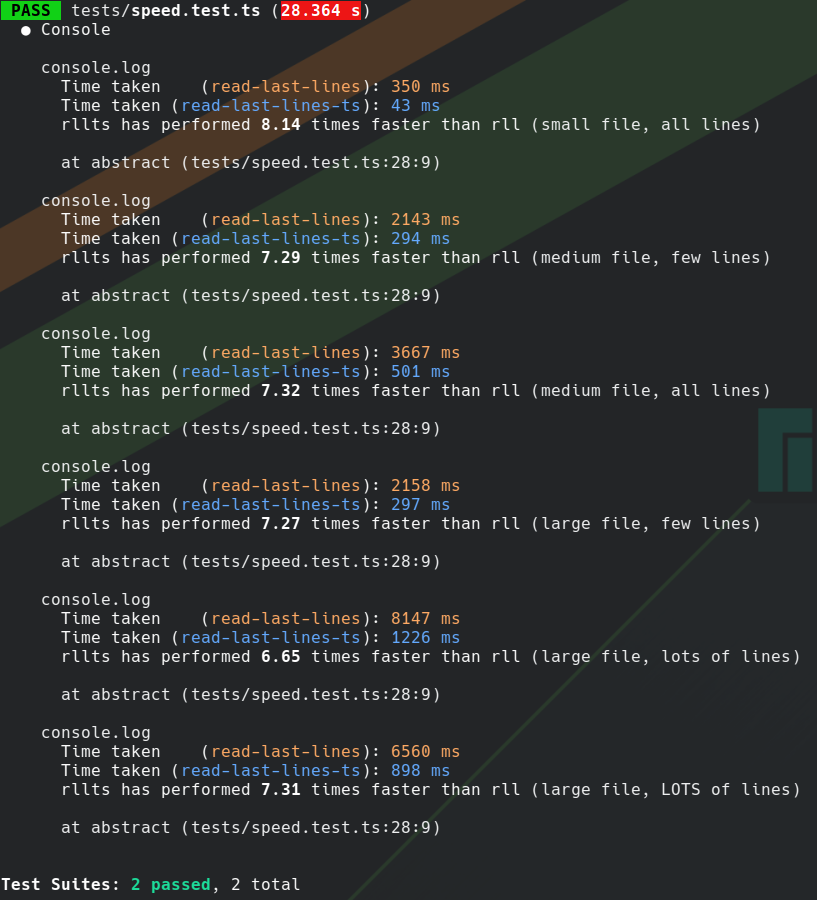
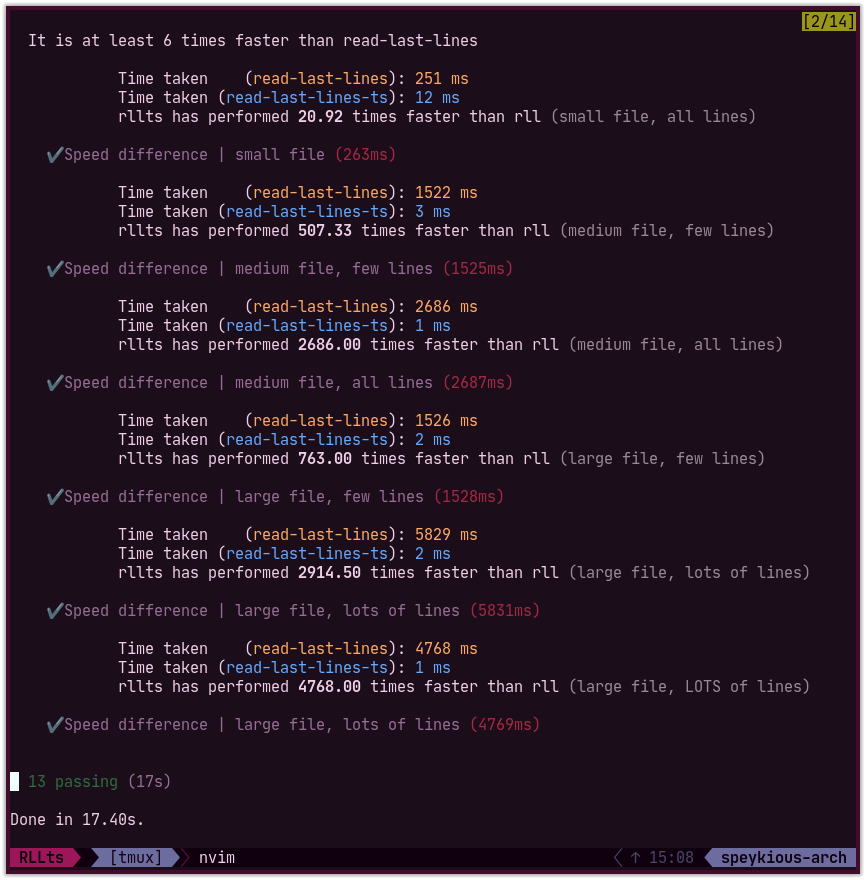
Updated Readme

diff --git a/README.md b/README.md
@@ -18,13 +18,15 @@ Summary
 
 ## How to install
 
-- If you use npm: `npm install read-last-lines-ts --save`
-- If you use yarn: `yarn add read-last-lines-ts`
+- If you use `npm`: `npm install read-last-lines-ts --save`
+- If you use `yarn`: `yarn add read-last-lines-ts`
 
 
 ## How to use
 
-**New in v1.1.0:** now handles absolute *and* relative paths! 
+`read-last-lines-ts` supports absolute and relative paths since version **1.1.0**.
+
+**New in v1.2.0**: *literally **1000** times faster!!!*
 
 ### CommonJS syntax
 To read the last 10 lines of a file in utf8 encoding:
@@ -35,7 +37,12 @@ const { readLastLines, readLastLinesEnc } = require("read-last-lines-ts")
 const buffer = readLastLines("path/to/file", 10)
 console.log(buffer.toString("utf8"))
 
+// You can specify a buffer length (default is 4096) ─ example: 50 chars at a time!
+// The bufferLength parameter is the length of the internal buffer used for reading
+const buffer = readLastLines("path/to/file", 10, 50)
+
 // Alternatively, you can use this curried function for builtin string conversion
+// (PS: the optional bufferLength parameter also works here)
 const lines = readLastLinesEnc("utf8")("path/to/file", 10)
 console.log(lines)
 ```
@@ -53,16 +60,19 @@ import { readLastLines, readLastLinesEnc } from "read-last-lines-ts"
 const buffer = readLastLines("path/to/file", 10)
 console.log(buffer.toString("utf8"))
 
+// Optional bufferLength argument
+const buffer = readLastLines("path/to/file", 10, 50)
+
 // Or:
 const lines = readLastLinesEnc("utf8")("path/to/file", 10)
 console.log(lines)
 ```
-You can code in JavaScript or in TypeScript, whatever is in your best interest.
+You can code in JavaScript, TypeScript, CoffeeScript, whatever is in your best interest.
 
 ## Miscellaneous
-This `read-last-lines-ts` package is always at least
-**6 times faster** than the `read-last-lines` package,
-as those speed tests indicate:
+The `read-last-lines-ts` package is very often
+**1000s of times faster** than the `read-last-lines` package,
+as these speed tests indicate:
 
 [![Test screenshot](resources/screenshot-test.png)](resources/screenshot-test.png)
 
